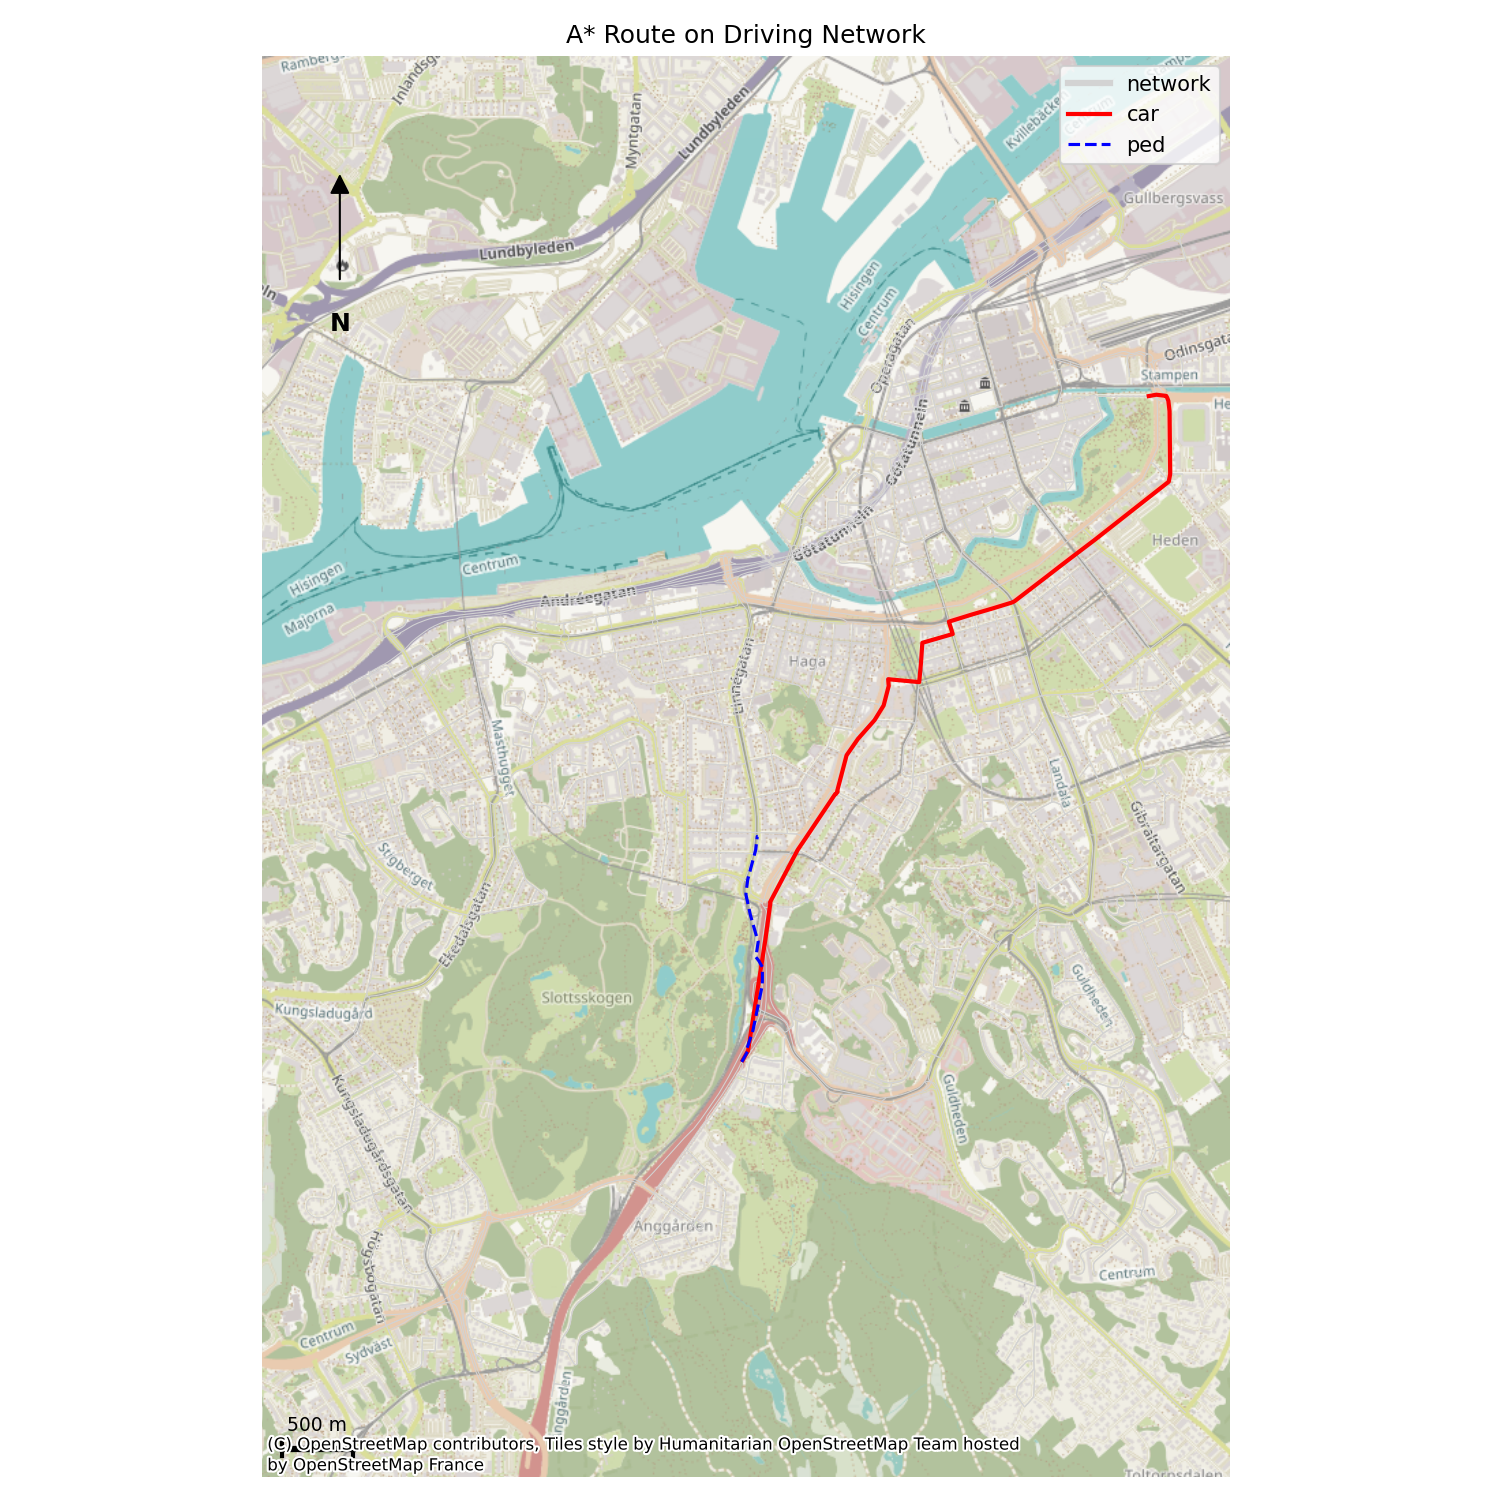
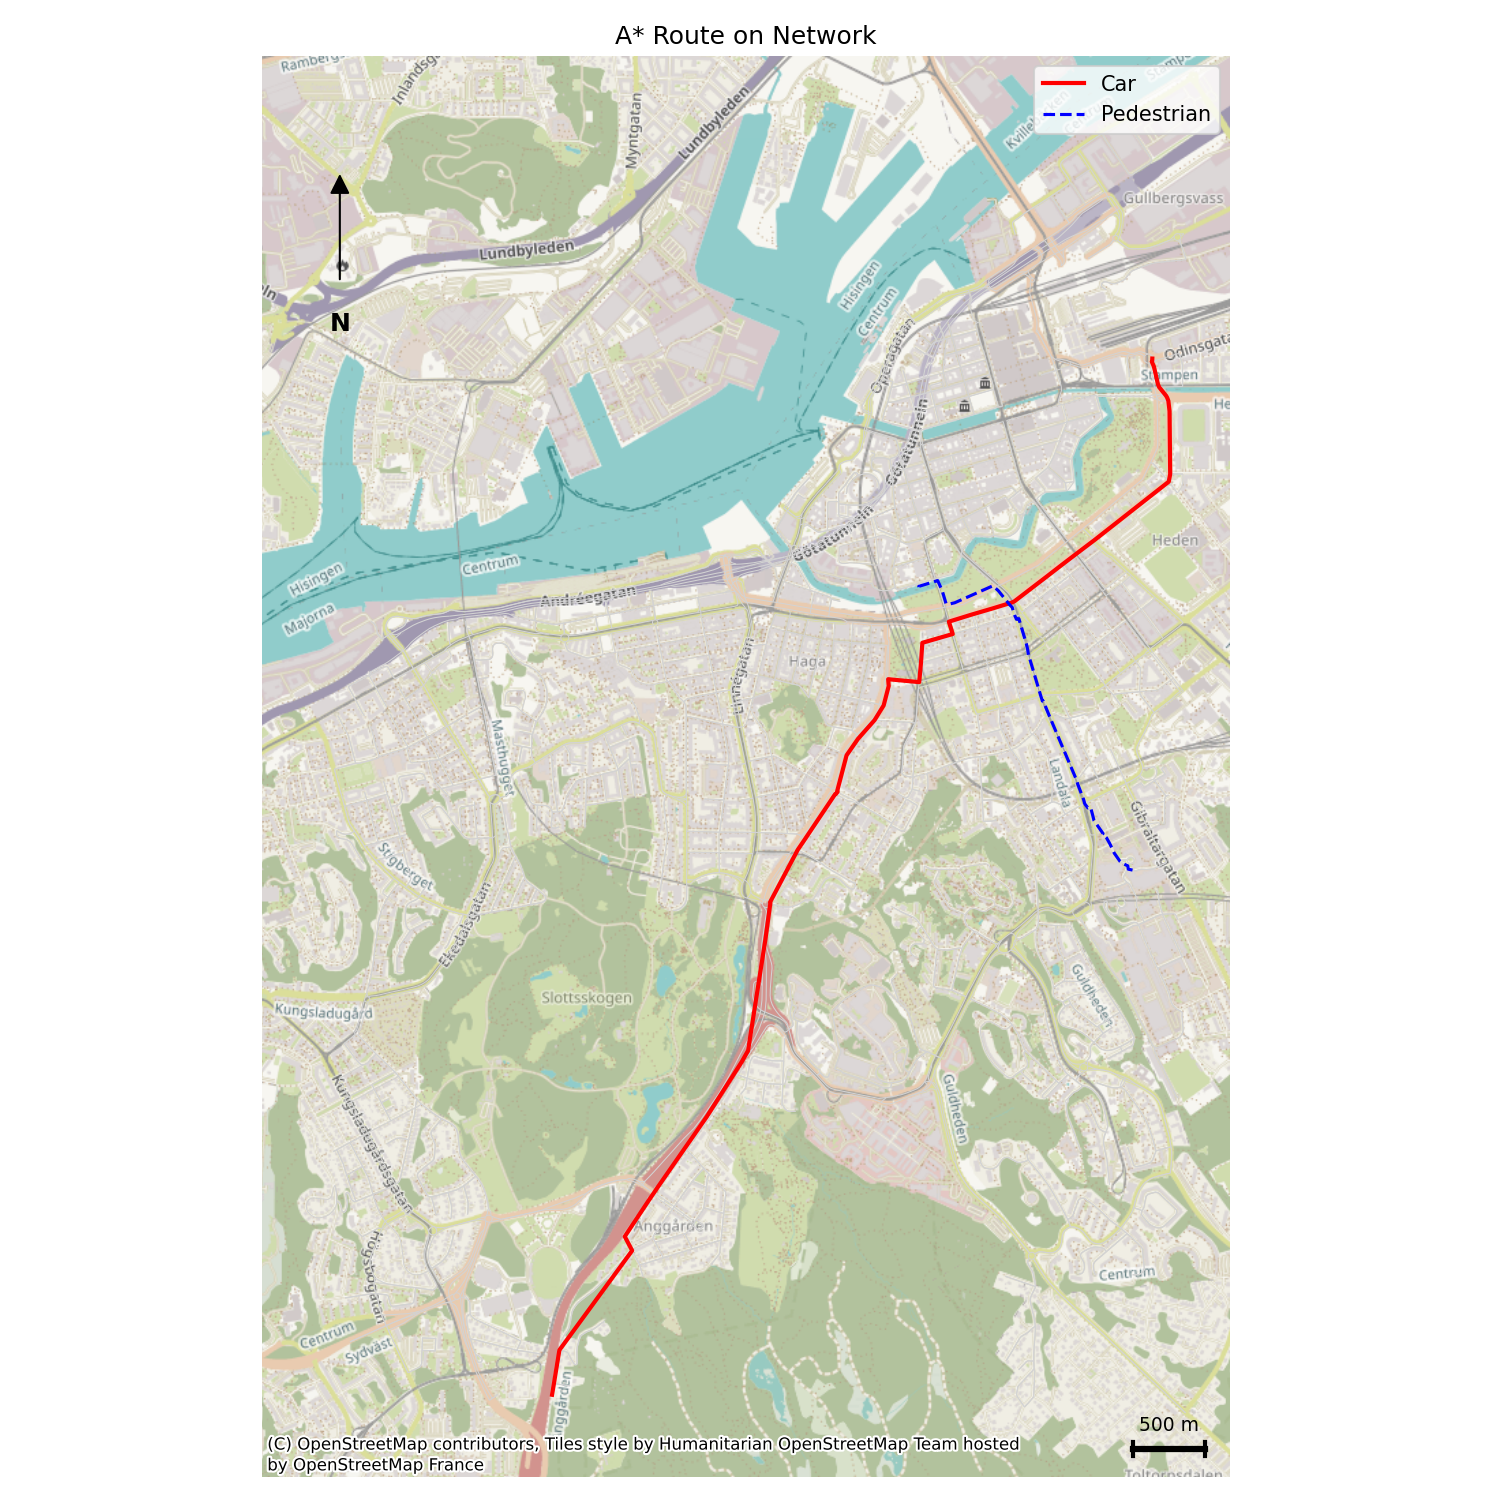
.

diff --git a/model/run_routing.py b/model/run_routing.py
@@ -328,9 +328,9 @@ def main(argv=None):
                     ideal = dx * 0.10
                     candidates = [50, 100, 200, 500, 1000, 2000, 5000, 10000]
                     scale_len = min(candidates, key=lambda c: abs(c - ideal))
-                    # scalebar position in data coords (lower left)
-                    sb_x = x1 - 0.02 * dx
-                    sb_y = y1 - 0.02 * dy
+                    # scalebar position in data coords 
+                    sb_x = x1 - 0.1 * dx
+                    sb_y = y0 + 0.02 * dy
                     ax.plot([sb_x, sb_x + scale_len], [sb_y, sb_y], color='k', linewidth=3)
                     ax.plot([sb_x, sb_x], [sb_y - 0.005 * dy, sb_y + 0.005 * dy], color='k', linewidth=2)
                     ax.plot([sb_x + scale_len, sb_x + scale_len], [sb_y - 0.005 * dy, sb_y + 0.005 * dy], color='k', linewidth=2)
